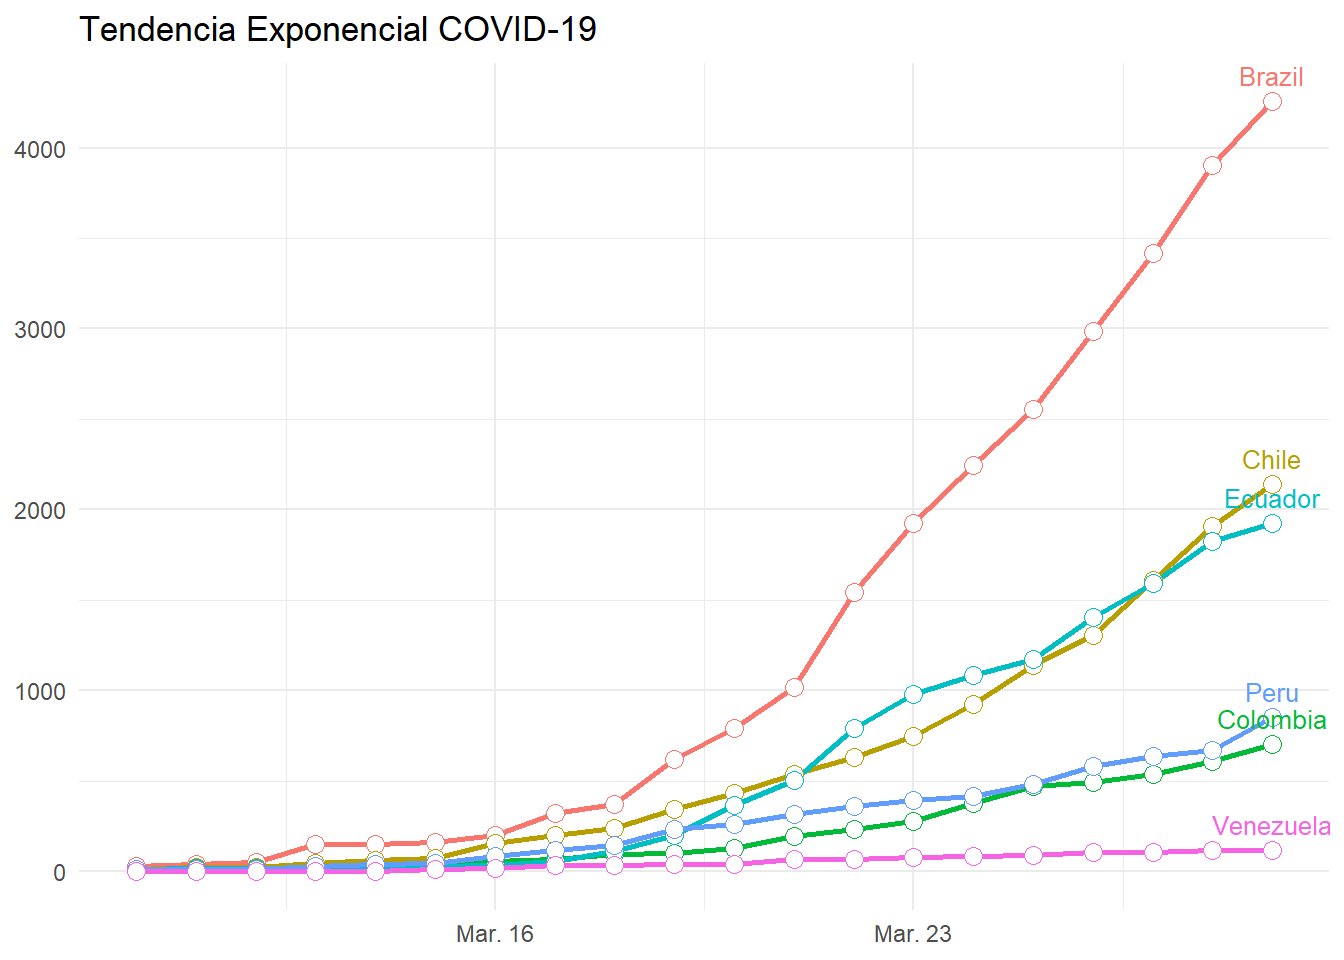
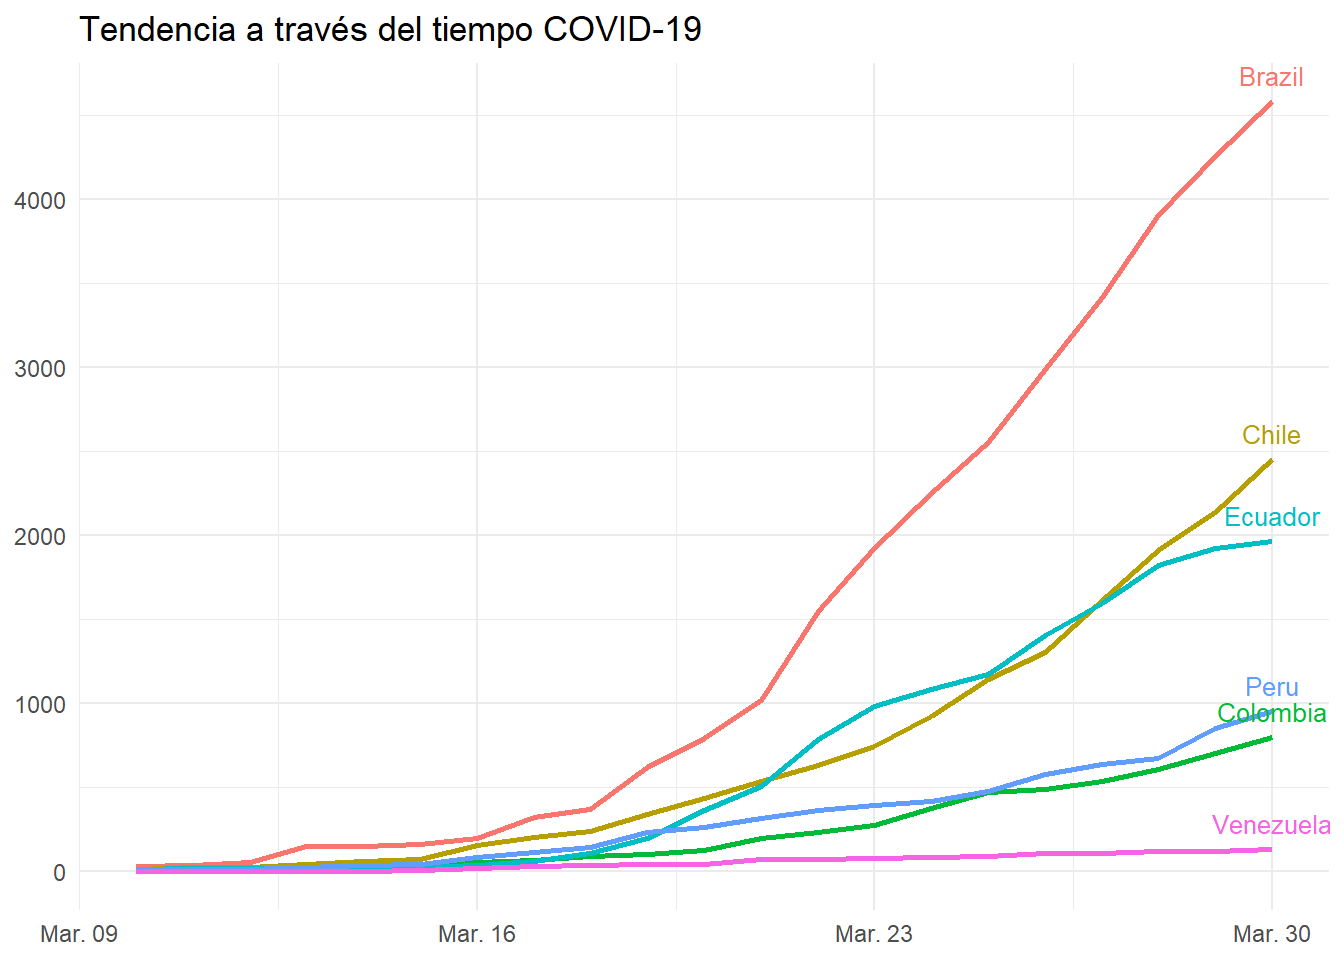
20200330

diff --git a/index.html b/index.html
@@ -12,7 +12,7 @@
 
 <meta name="author" content="Jorge David Morales" />
 
-<meta name="date" content="2020-03-29" />
+<meta name="date" content="2020-03-30" />
 
 <title>JD Website</title>
 
@@ -295,7 +295,7 @@ $(document).ready(function () {
 
 <h1 class="title toc-ignore">JD Website</h1>
 <h4 class="author">Jorge David Morales</h4>
-<h4 class="date">2020-03-29</h4>
+<h4 class="date">2020-03-30</h4>
 
 </div>
 
@@ -304,7 +304,7 @@ $(document).ready(function () {
 <h1>COVID-19</h1>
 <p>Información tomada del GitHub de la Universidad Johns Hopkins, US:<br />
 <a href="https://github.com/CSSEGISandData/COVID-19/tree/master/csse_covid_19_data" class="uri">https://github.com/CSSEGISandData/COVID-19/tree/master/csse_covid_19_data</a></p>
-<pre><code>## [1] &quot;Fecha de último reporte: 2020-03-29&quot;</code></pre>
+<pre><code>## [1] &quot;Fecha de último reporte: 2020-03-30&quot;</code></pre>
 <table class="table table-striped table-hover table-condensed" style="margin-left: auto; margin-right: auto;">
 <thead>
 <tr>
@@ -340,57 +340,57 @@ Death.Rate
 <tbody>
 <tr>
 <td style="text-align:center;">
-2020-03-29
+2020-03-30
 </td>
 <td style="text-align:right;">
 Brazil
 </td>
 <td style="text-align:center;">
-4256
+4579
 </td>
 <td style="text-align:center;">
-6
+120
 </td>
 <td style="text-align:center;">
-136
+159
 </td>
 <td style="text-align:center;">
-352
+323
 </td>
 <td style="text-align:center;">
-4114
+4300
 </td>
 <td style="text-align:right;">
-0.140%
+2.62%
 </td>
 <td style="text-align:center;">
-3.20%
+3.47%
 </td>
 </tr>
 <tr>
 <td style="text-align:center;">
-2020-03-29
+2020-03-30
 </td>
 <td style="text-align:right;">
 Chile
 </td>
 <td style="text-align:center;">
-2139
+2449
 </td>
 <td style="text-align:center;">
-75
+156
 </td>
 <td style="text-align:center;">
-7
+8
 </td>
 <td style="text-align:center;">
-230
+310
 </td>
 <td style="text-align:center;">
-2057
+2285
 </td>
 <td style="text-align:right;">
-3.51%
+6.37%
 </td>
 <td style="text-align:center;">
 0.330%
@@ -398,124 +398,125 @@ Chile
 </tr>
 <tr>
 <td style="text-align:center;">
-2020-03-29
+2020-03-30
 </td>
 <td style="text-align:right;">
 Ecuador
 </td>
 <td style="text-align:center;">
-1924
+1962
 </td>
 <td style="text-align:center;">
 3
 </td>
 <td style="text-align:center;">
-58
+60
 </td>
 <td style="text-align:center;">
-101
+38
 </td>
 <td style="text-align:center;">
-1863
+1899
 </td>
 <td style="text-align:right;">
-0.160%
+0.150%
 </td>
 <td style="text-align:center;">
-3.01%
+3.06%
 </td>
 </tr>
 <tr>
 <td style="text-align:center;">
-2020-03-29
+2020-03-30
 </td>
 <td style="text-align:right;">
 Peru
 </td>
 <td style="text-align:center;">
-852
+950
 </td>
 <td style="text-align:center;">
-16
+53
 </td>
 <td style="text-align:center;">
-18
+24
 </td>
 <td style="text-align:center;">
-181
+98
 </td>
 <td style="text-align:center;">
-818
+873
 </td>
 <td style="text-align:right;">
-1.88%
+5.58%
 </td>
 <td style="text-align:center;">
-2.11%
+2.53%
 </td>
 </tr>
 <tr>
 <td style="text-align:center;">
-2020-03-29
+2020-03-30
 </td>
 <td style="text-align:right;">
 Colombia
 </td>
 <td style="text-align:center;">
-702
+798
 </td>
 <td style="text-align:center;">
-10
+15
 </td>
 <td style="text-align:center;">
-10
+12
 </td>
 <td style="text-align:center;">
-94
+96
 </td>
 <td style="text-align:center;">
-682
+771
 </td>
 <td style="text-align:right;">
-1.42%
+1.88%
 </td>
 <td style="text-align:center;">
-1.42%
+1.50%
 </td>
 </tr>
 <tr>
 <td style="text-align:center;">
-2020-03-29
+2020-03-30
 </td>
 <td style="text-align:right;">
 Venezuela
 </td>
 <td style="text-align:center;">
-119
+135
 </td>
 <td style="text-align:center;">
 39
 </td>
 <td style="text-align:center;">
-2
+3
 </td>
 <td style="text-align:center;">
-0
+16
 </td>
 <td style="text-align:center;">
-78
+93
 </td>
 <td style="text-align:right;">
-32.8%
+28.9%
 </td>
 <td style="text-align:center;">
-1.68%
+2.22%
 </td>
 </tr>
 </tbody>
 </table>
 <p><img src="index_files/figure-html/unnamed-chunk-6-1.png" width="672" /></p>
 <p><img src="index_files/figure-html/unnamed-chunk-7-1.png" width="672" /></p>
+<p><img src="index_files/figure-html/unnamed-chunk-8-1.png" width="672" /></p>
 </div>
 
 
